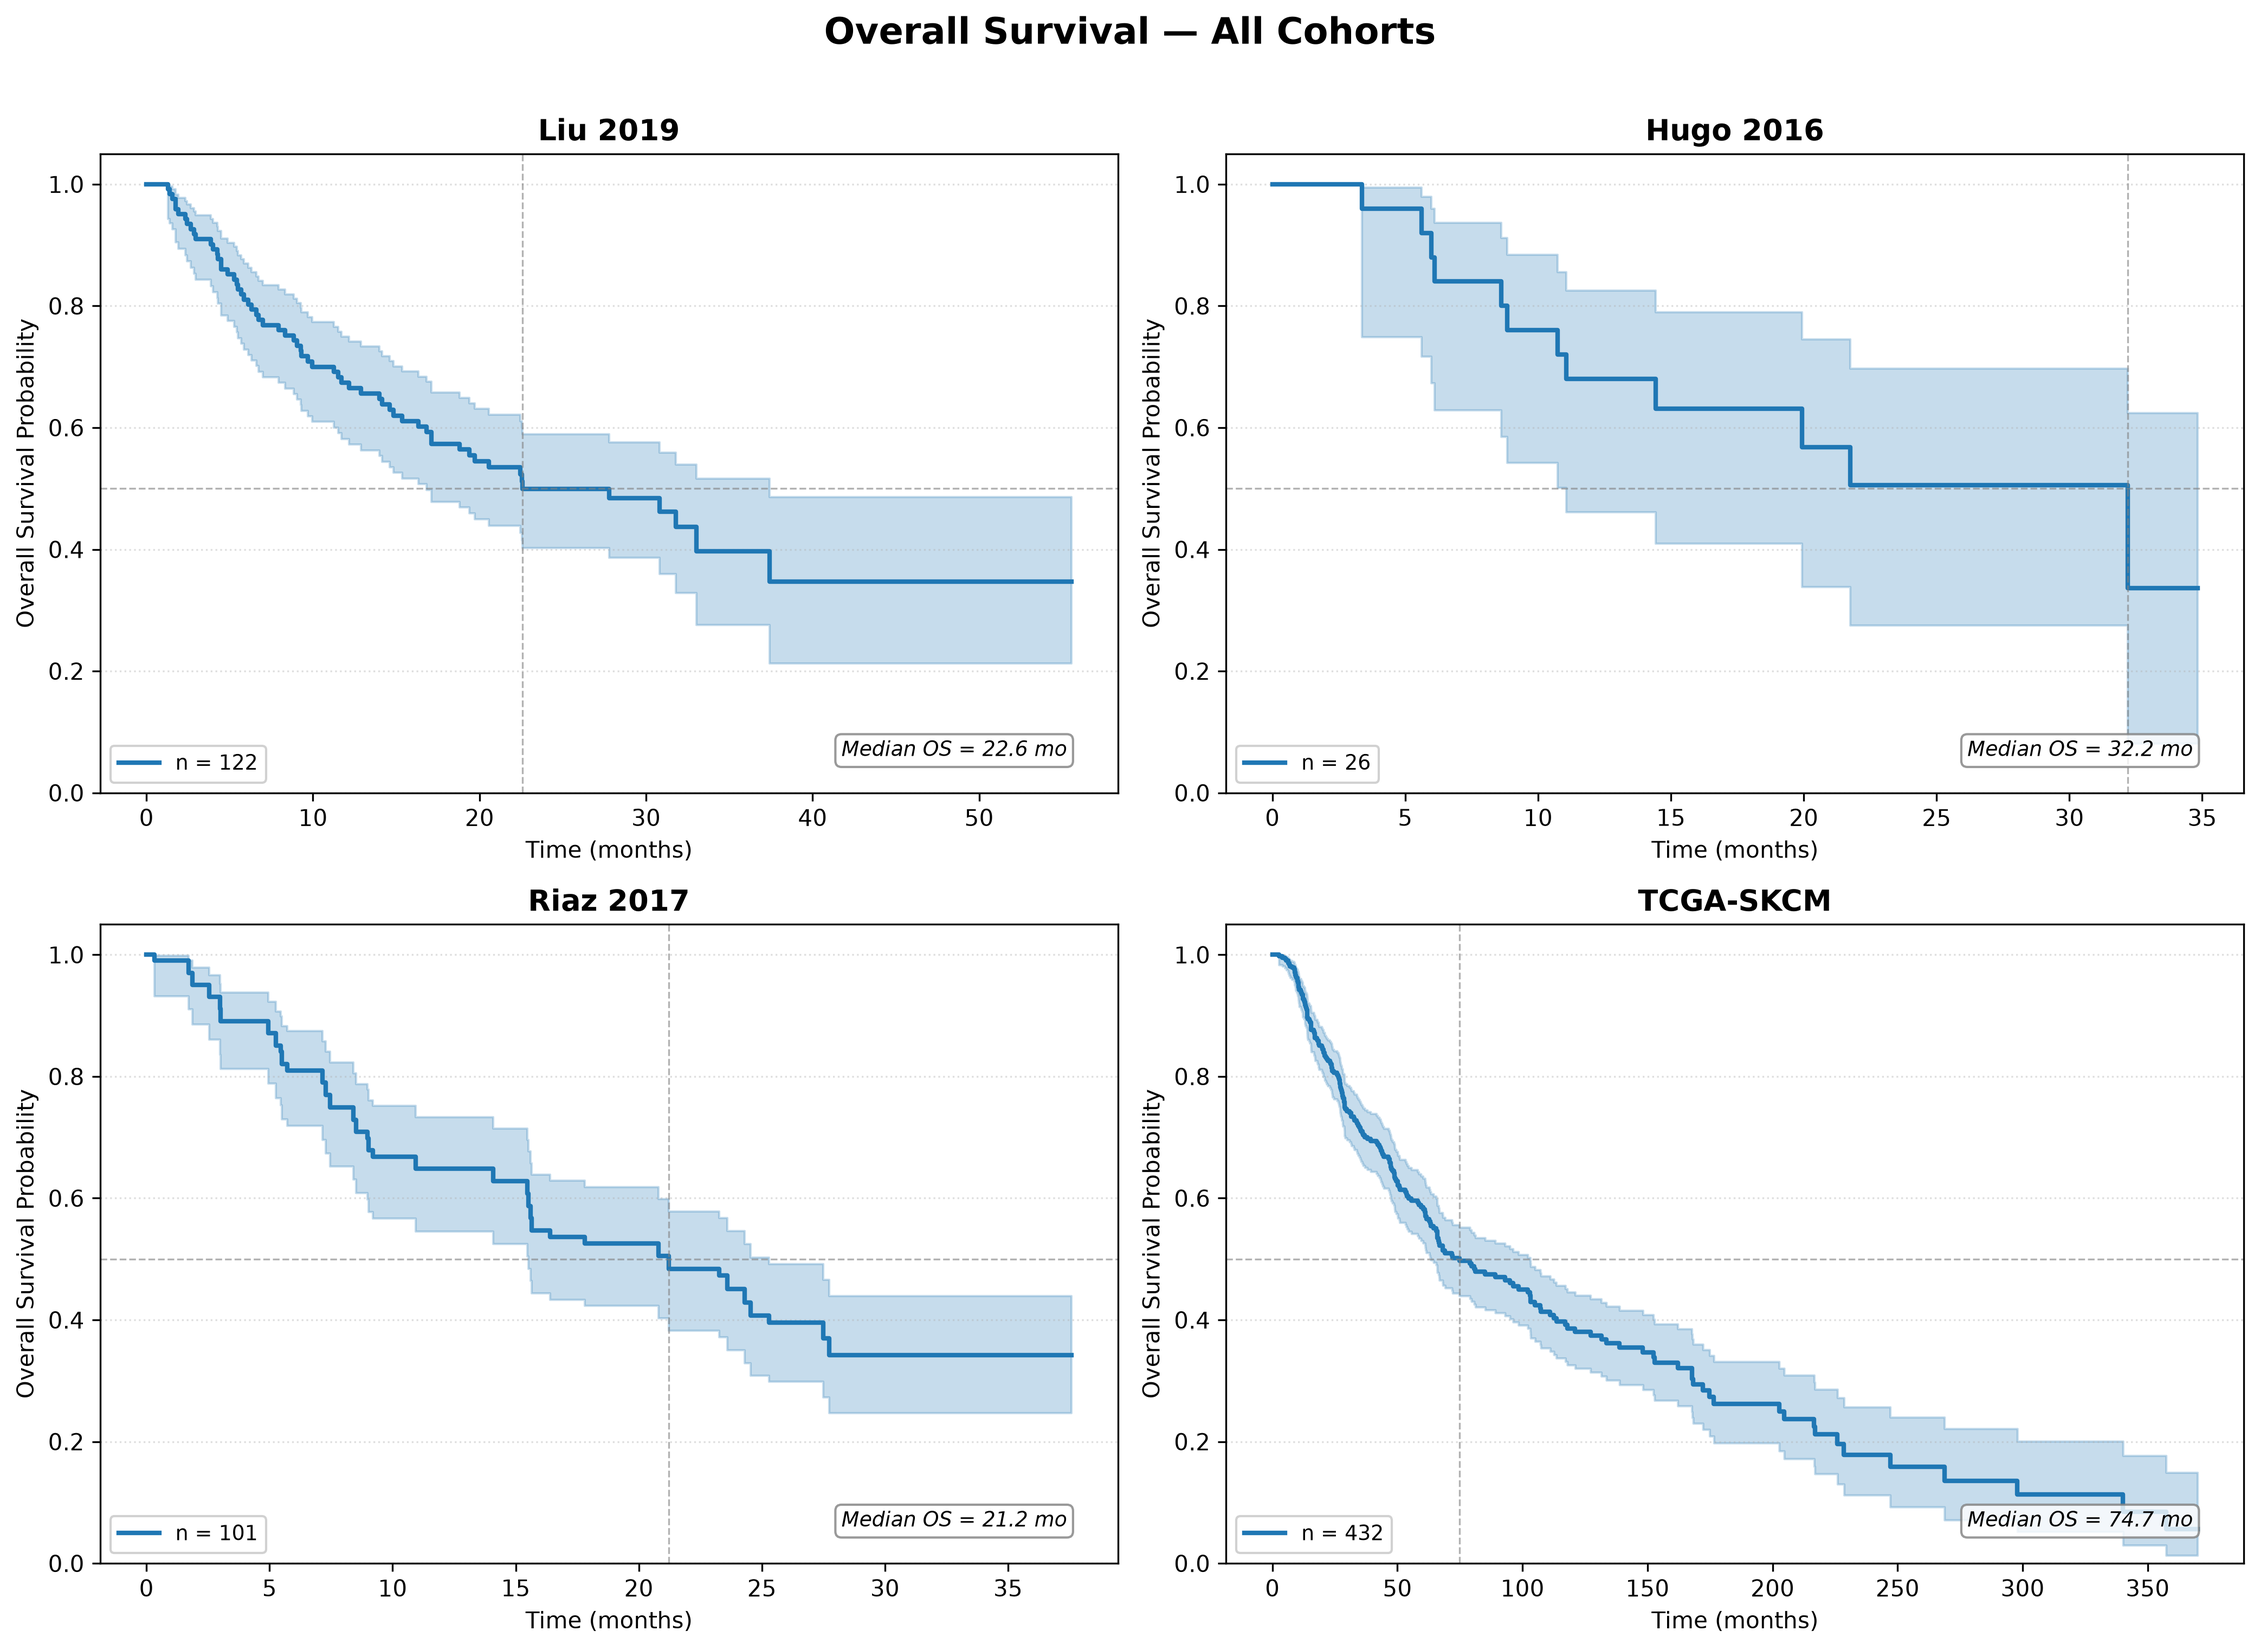
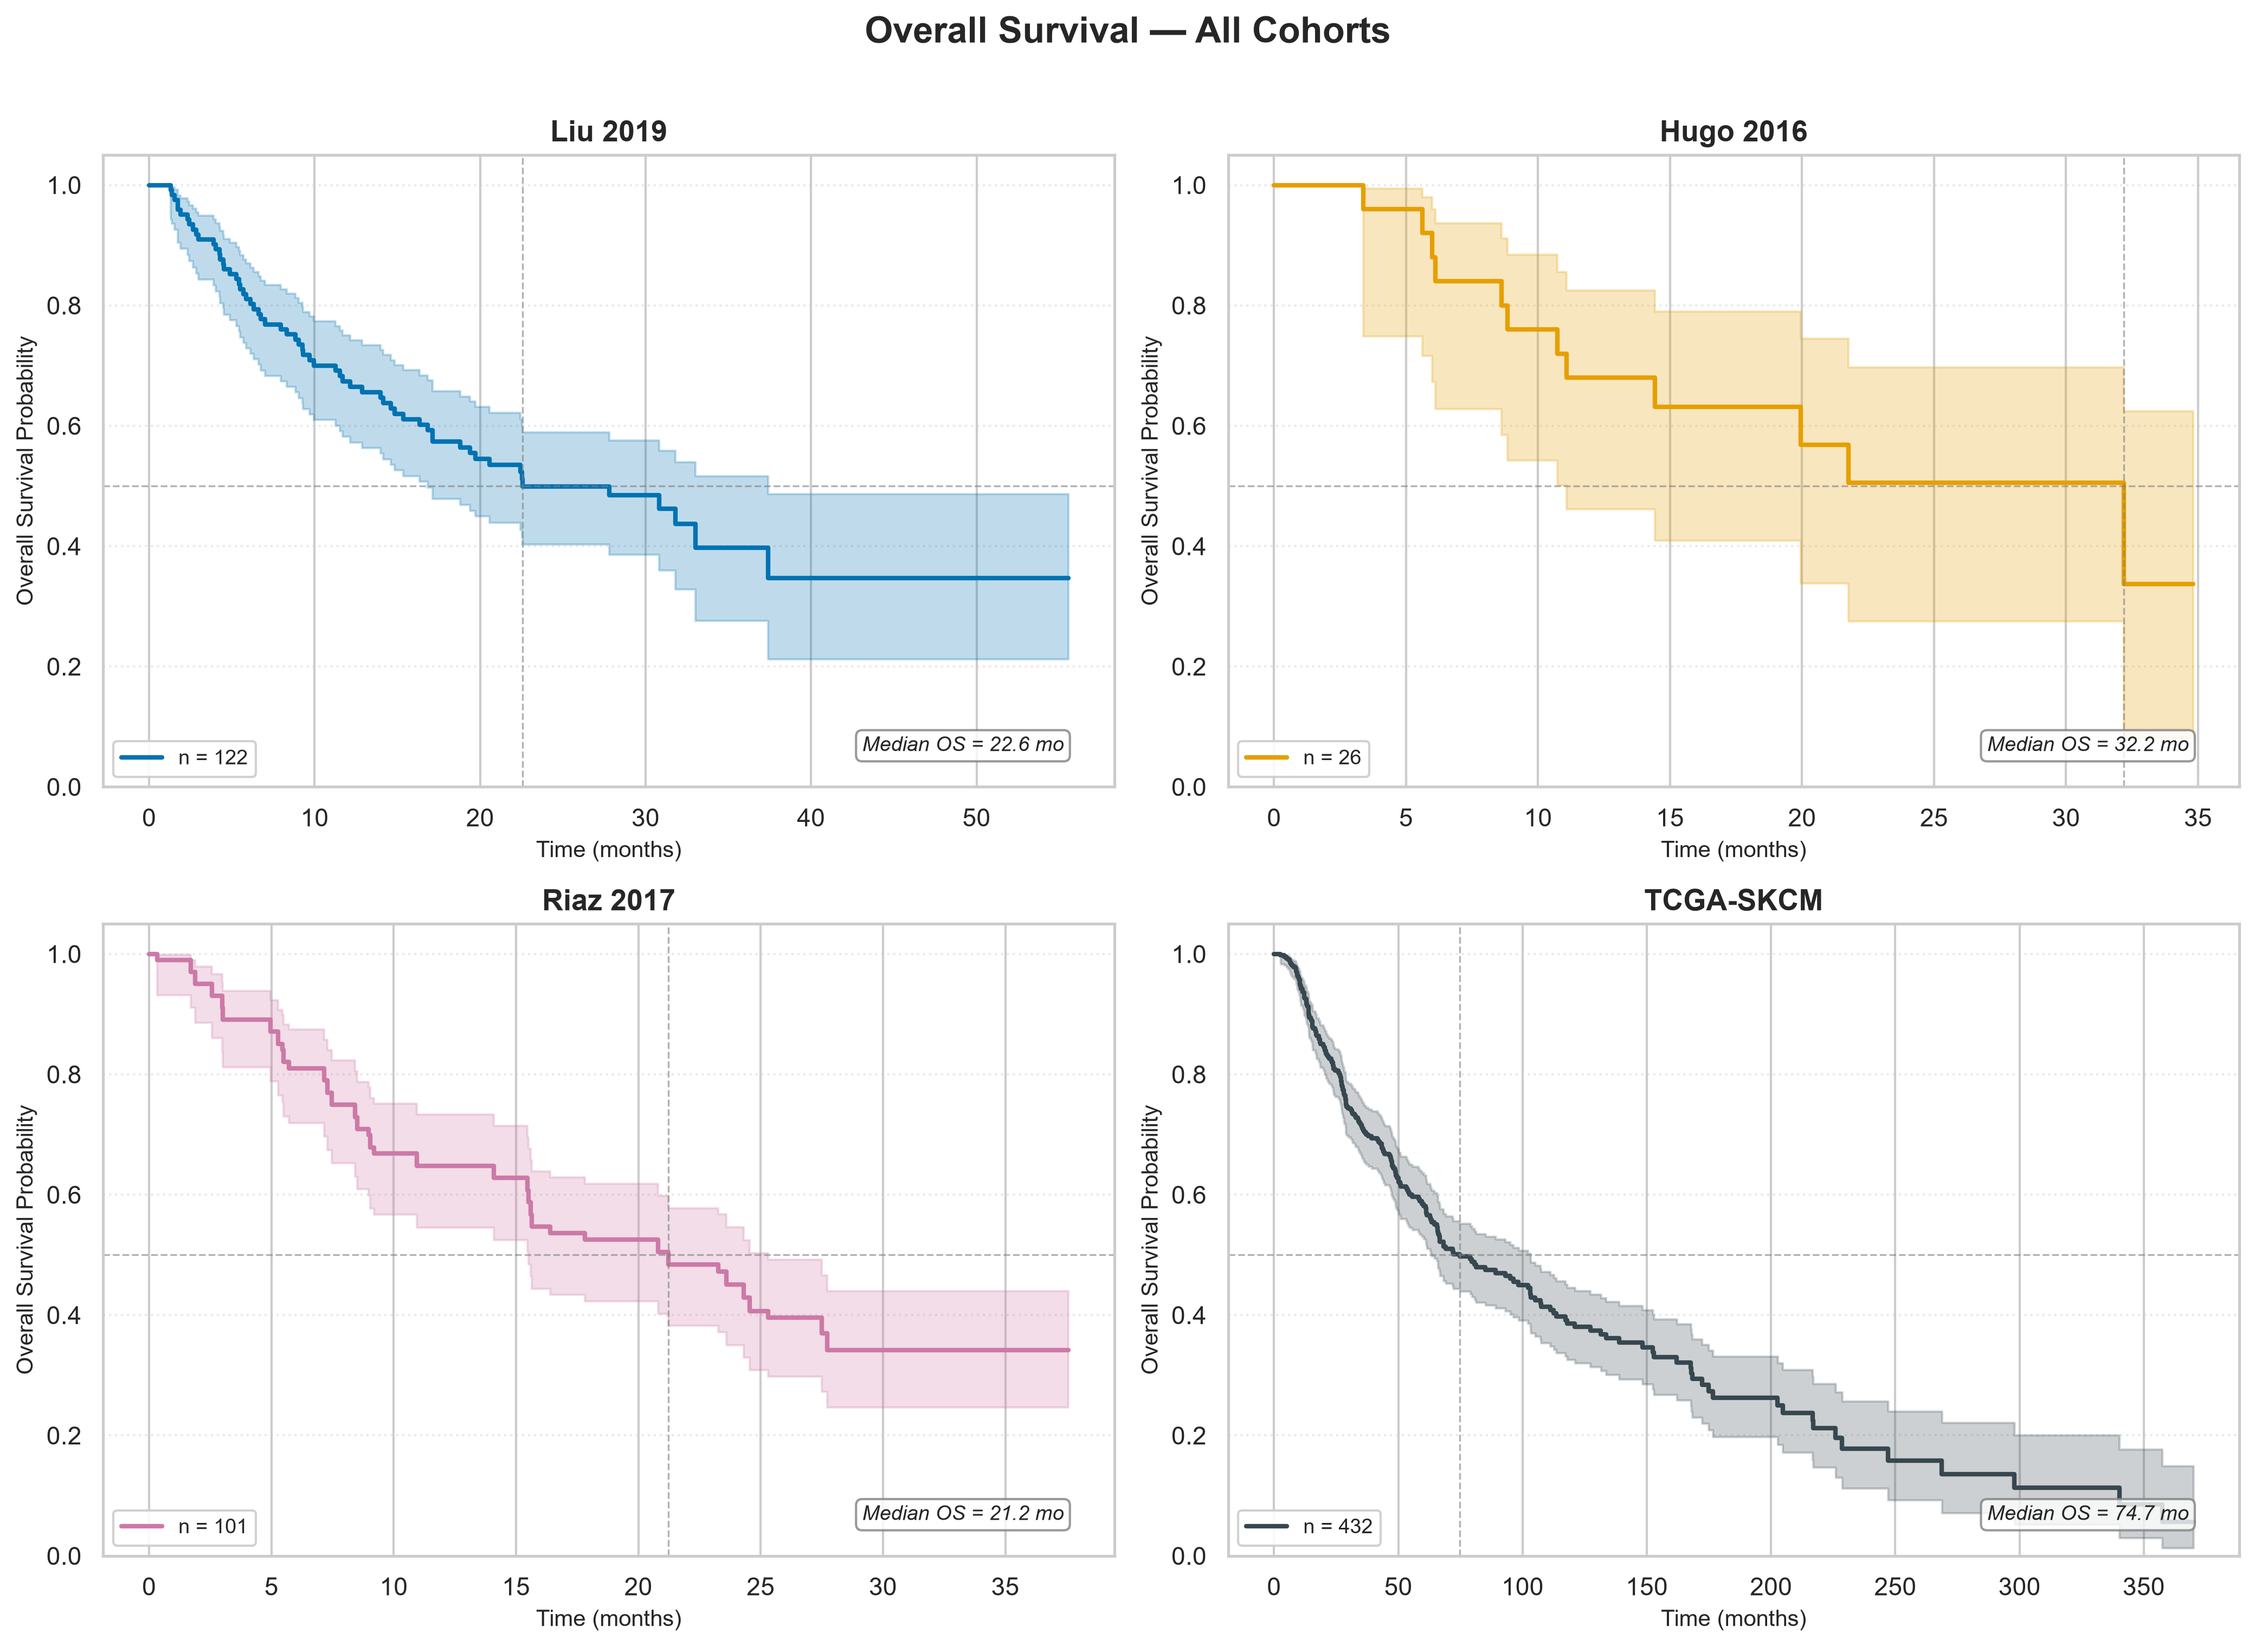
style(clinical): update overall KM survival curves to match cohort colors

diff --git a/q1-response-predictor/scripts/clinical_analysis/run_clinical_analysis.py b/q1-response-predictor/scripts/clinical_analysis/run_clinical_analysis.py
@@ -59,6 +59,9 @@ def _clean_os(df: pd.DataFrame, time_col: str, event_col: str, stratify_col: str
     return out
 
 
+from src.styles import COHORT_PALETTE, get_cohort_color, set_presentation_style
+
+
 def plot_km_os(ax, df_clin: pd.DataFrame, cohort_label: str):
     """
     Plot an unstratified Kaplan-Meier OS curve on the given axes.
@@ -70,9 +73,11 @@ def plot_km_os(ax, df_clin: pd.DataFrame, cohort_label: str):
     time_col, event_col = _resolve_os_columns(df_clin)
     df = _clean_os(df_clin, time_col, event_col)
 
+    cohort_color = get_cohort_color(cohort_label)
+
     kmf = KaplanMeierFitter()
     kmf.fit(df[time_col], event_observed=df[event_col], label=f"n = {len(df)}")
-    kmf.plot_survival_function(ax=ax, ci_show=True, color="#1f77b4", linewidth=2)
+    kmf.plot_survival_function(ax=ax, ci_show=True, color=cohort_color, linewidth=2)
 
     # Annotate median survival if reached
     median_surv = kmf.median_survival_time_
@@ -117,6 +122,7 @@ def main():
     ]
 
     # ── 2×2 grid ─────────────────────────────────────────────────────────
+    set_presentation_style()
     fig, axes = plt.subplots(2, 2, figsize=(14, 10))
     axes = axes.ravel()
 
